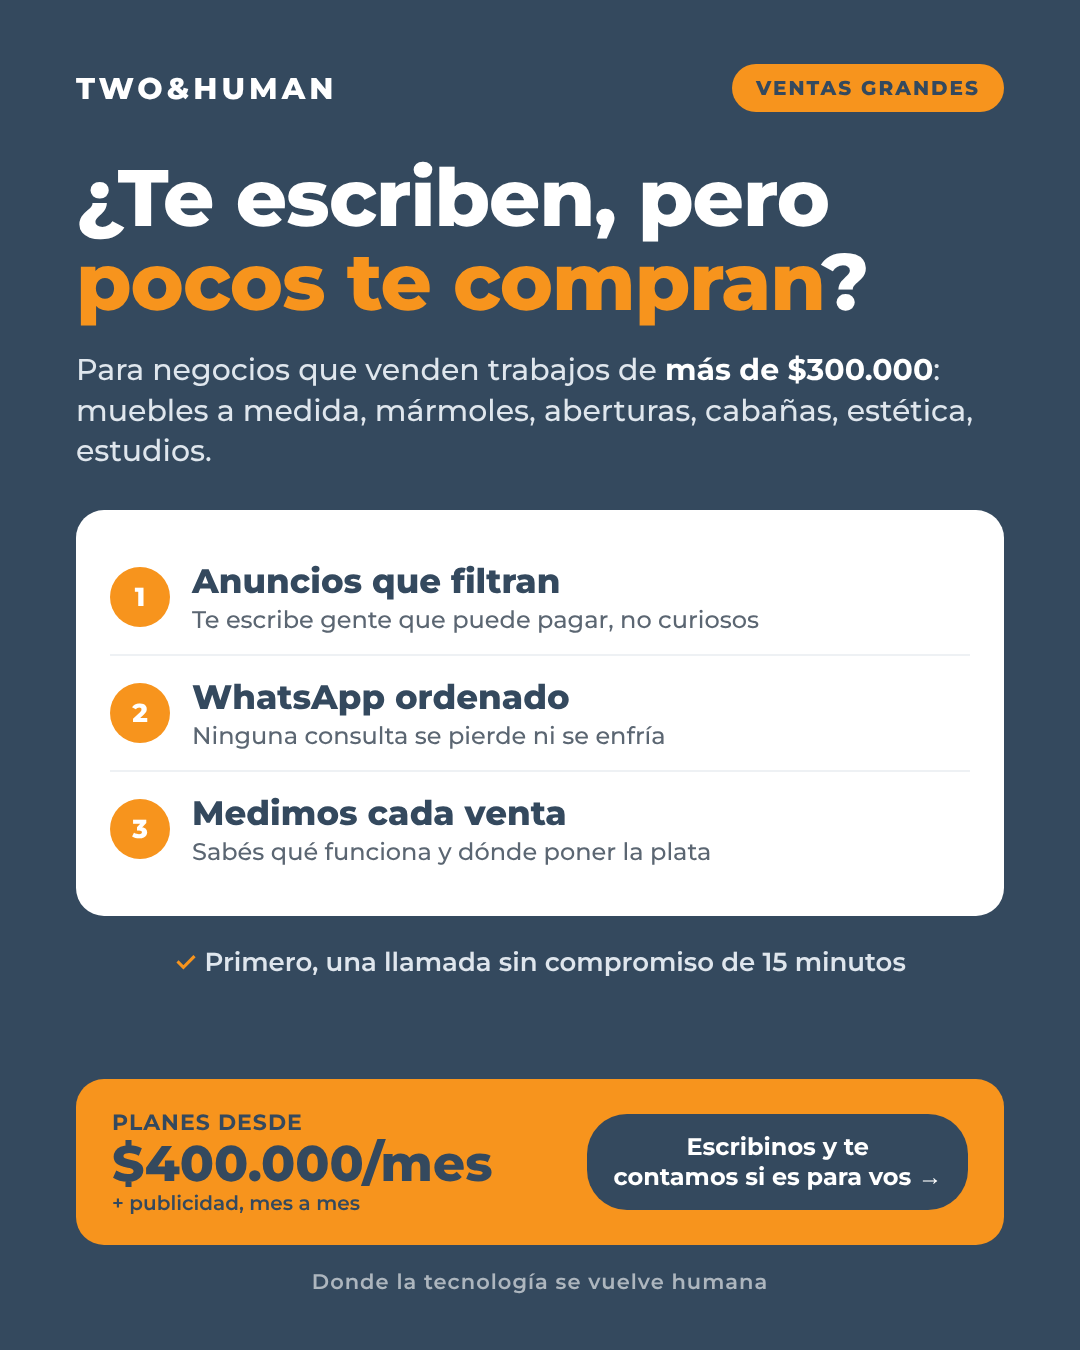
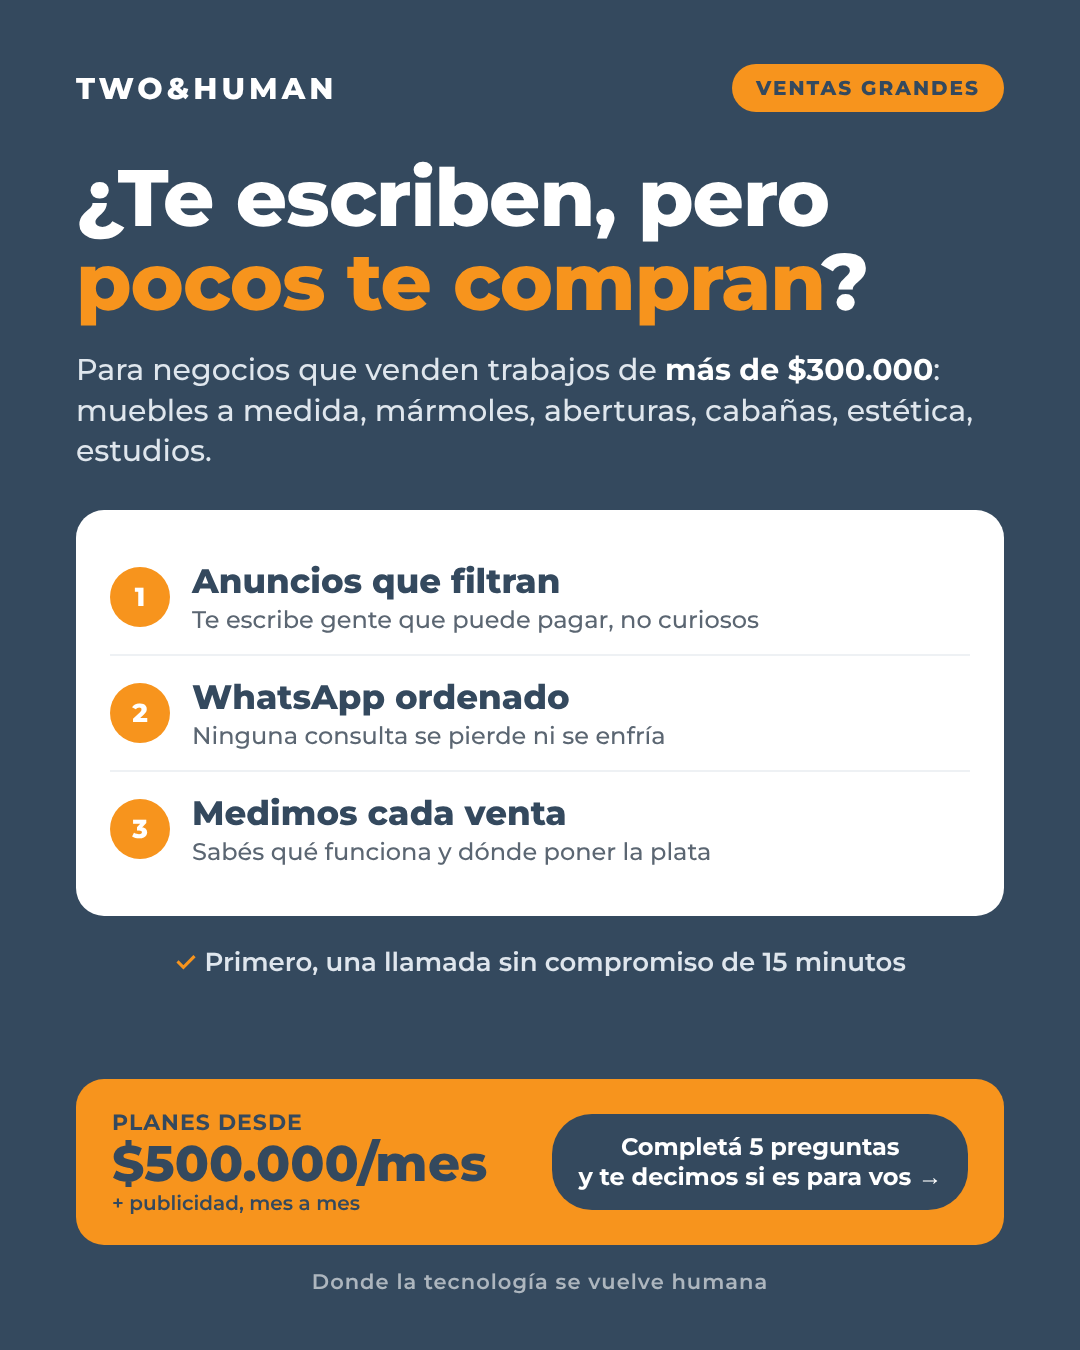
Anuncio A: precio desde $500.000 y botón hacia el formulario
Claude-Session: https://claude.ai/code/session_01NQ46XWbLrZtnaoioJPHJtX

Changed region(s): [[0.4889, 0.8089, 0.825, 0.9022], [0.1222, 0.84, 0.4583, 0.8711]]

diff --git a/anuncios/anuncio-a.html b/anuncios/anuncio-a.html
@@ -53,8 +53,8 @@
   </div>
   <p class="nota"><b>✓</b> Primero, una llamada sin compromiso de 15 minutos</p>
   <div class="precio">
-    <div class="p"><small>Planes desde</small><b>$400.000/mes</b><em>+ publicidad, mes a mes</em></div>
-    <div class="btn">Escribinos y te<br>contamos si es para vos →</div>
+    <div class="p"><small>Planes desde</small><b>$500.000/mes</b><em>+ publicidad, mes a mes</em></div>
+    <div class="btn">Completá 5 preguntas<br>y te decimos si es para vos →</div>
   </div>
   <div class="pie">Donde la tecnología se vuelve humana</div>
 </section>
@@ -70,8 +70,8 @@
   </div>
   <p class="nota"><b>✓</b> Primero, una llamada sin compromiso de 15 minutos</p>
   <div class="precio">
-    <div class="p"><small>Planes desde</small><b>$400.000/mes</b><em>+ publicidad, mes a mes</em></div>
-    <div class="btn">Escribinos y te<br>contamos si es para vos →</div>
+    <div class="p"><small>Planes desde</small><b>$500.000/mes</b><em>+ publicidad, mes a mes</em></div>
+    <div class="btn">Completá 5 preguntas<br>y te decimos si es para vos →</div>
   </div>
   <div class="pie">Donde la tecnología se vuelve humana</div>
 </section>
